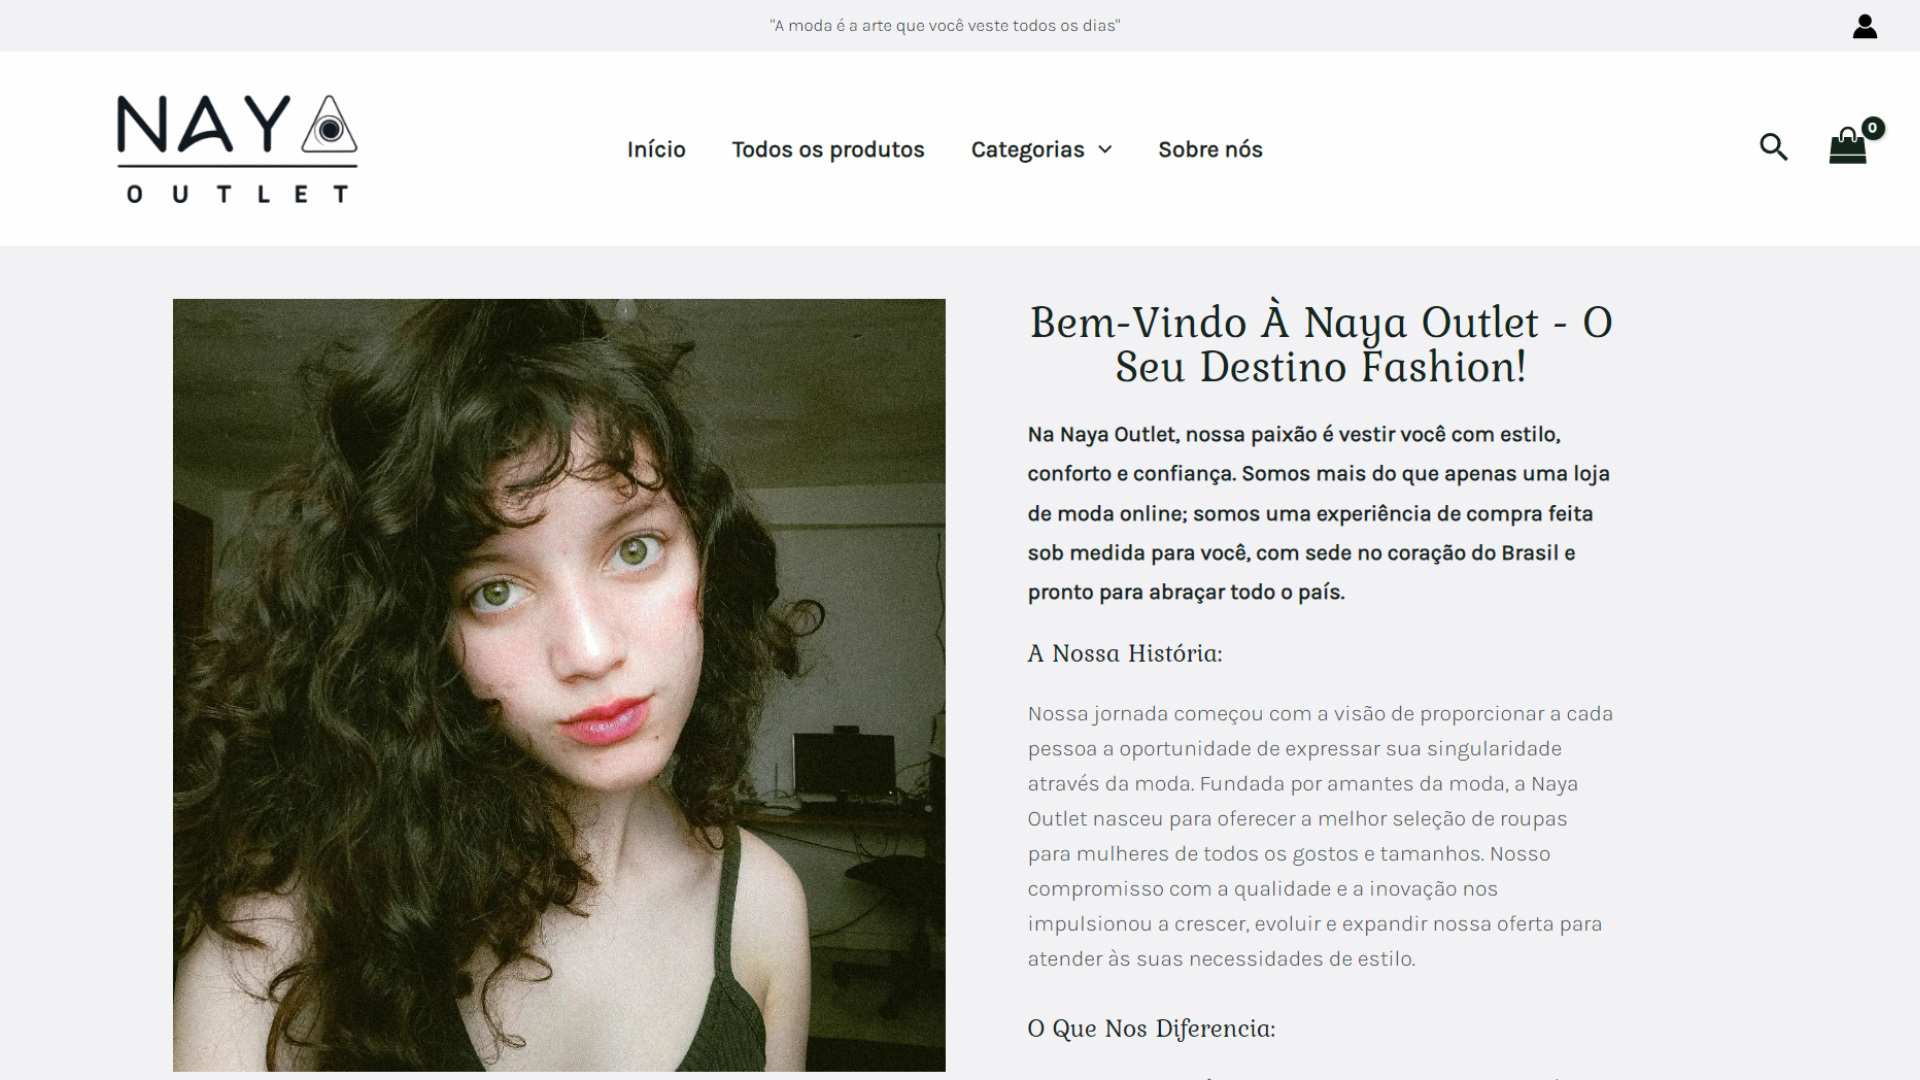
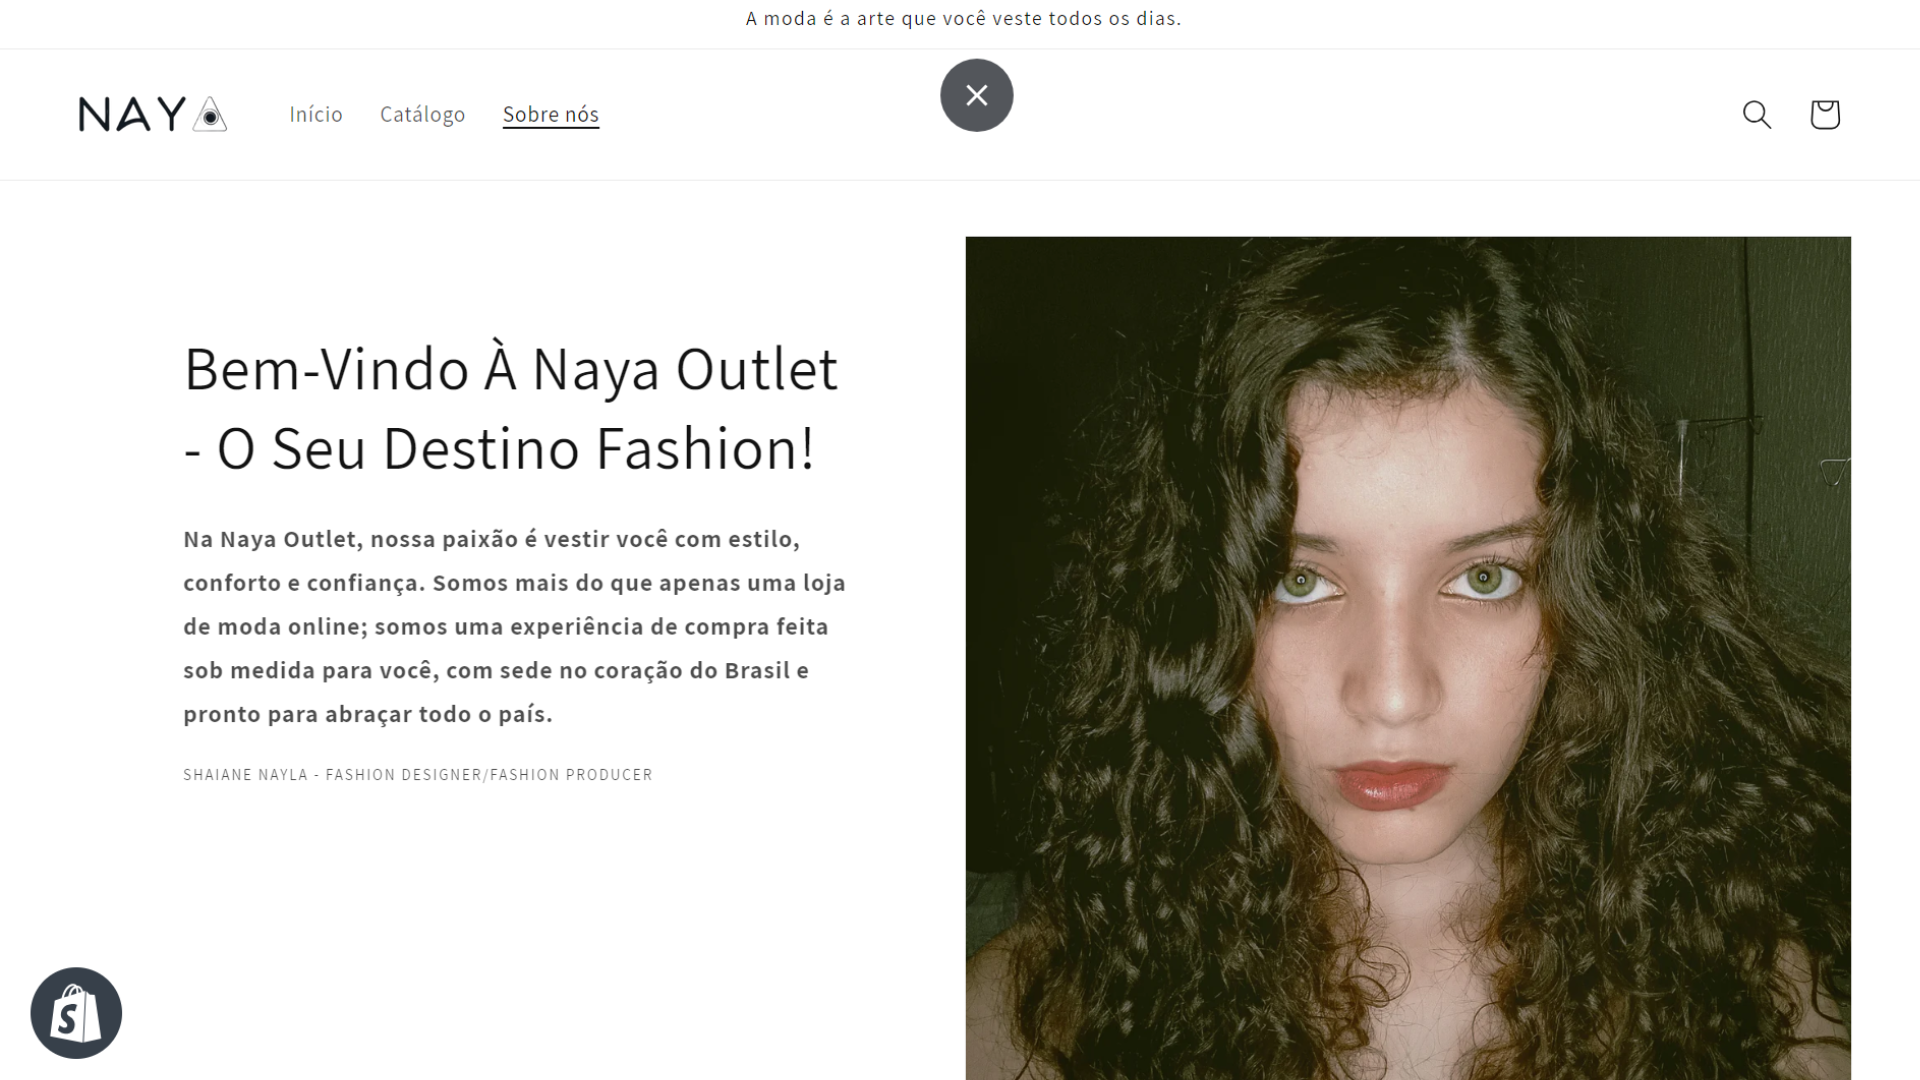
Atualizado o projeto naya outlet do wordpress para o da shopify

diff --git a/js/projects.js b/js/projects.js
@@ -3,11 +3,11 @@ const projectsData = [
         id: "05",
         display: "block",
         title: "05 - Naya Outlet",
-        description: "Um e-commerce feito como freelance para uma loja de roupas femininas onde desenvolvi o layout do 0 e também desenvolvi o site em WordPress e personalizando com HTML, CSS e JavaScript.",
-        technologies: ["JAVASCRIPT", "HTML", "CSS", "WORDPRESS"],
+        description: "Um e-commerce feito como freelance para uma loja de roupas femininas onde desenvolvi o layout do 0 e também desenvolvi o site na Shopify e personalizando com HTML, CSS e JavaScript.",
+        technologies: ["JAVASCRIPT", "HTML", "CSS", "SHOPIFY"],
         githubUrl: "",
         alt: "Imagem Demo do site Naya Outlet",
-        deployUrl: "https://nayaoutlet.com.br/",
+        deployUrl: "https://nayastore.com.br/",
         image: "./images/23-nayaoutlet-project-img.png",
     },
     {

diff --git a/index.html b/index.html
@@ -375,7 +375,7 @@
 
             <div class="resume-numbers-block" id="inicio">
                 <div class="resume-numbers"><img src="./images/xp-icon.png"/><h3>01</h3><p>Ano de experiência</p></div>
-                <div class="resume-numbers"><img src="./images/projects-icon.png"/><h3>06</h3><p>Projetos Concluídos</p></div>
+                <div class="resume-numbers"><img src="./images/projects-icon.png"/><h3>05</h3><p>Projetos Concluídos</p></div>
                 <div class="resume-numbers"><img src="./images/certificado-icon.png" /><h3>01</h3><p>Certificados Conquistados</p></div>
                 <div class="resume-numbers"><img src="./images/experiencia-icon.png" /><h3>01</h3><p>Experiências de Trabalho</p></div>
             </div>

diff --git a/js/btn-project-filter.js b/js/btn-project-filter.js
@@ -1,7 +1,7 @@
 import projectsData from "./projects.js";
 
 const filtersBtnBlock = document.querySelector(".main-projects-buttons-filter");
-const projects = ["HTML", "CSS", "JAVASCRIPT", "REACT", "NODE", "JEST", "VITE", "WORDPRESS"];
+const projects = ["HTML", "CSS", "JAVASCRIPT", "REACT", "NODE", "JEST", "VITE", "SHOPIFY"];
 const projectsCardsCarousel = document.querySelector(".main-projects-cards-carousel");
 const projectsIcon = [
     {
@@ -45,8 +45,8 @@ const projectsIcon = [
         src: "https://img.icons8.com/color/32/vite.png",
     },
     {
-        tech: "WORDPRESS",
-        src: "https://img.icons8.com/color/48/wordpress.png",
+        tech: "SHOPIFY",
+        src: "./images/shopify-icon.png"
     }
 ];
 
